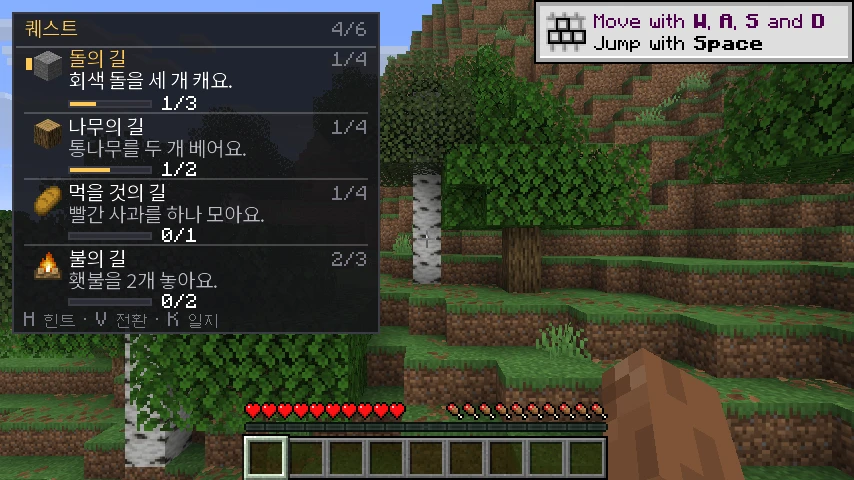
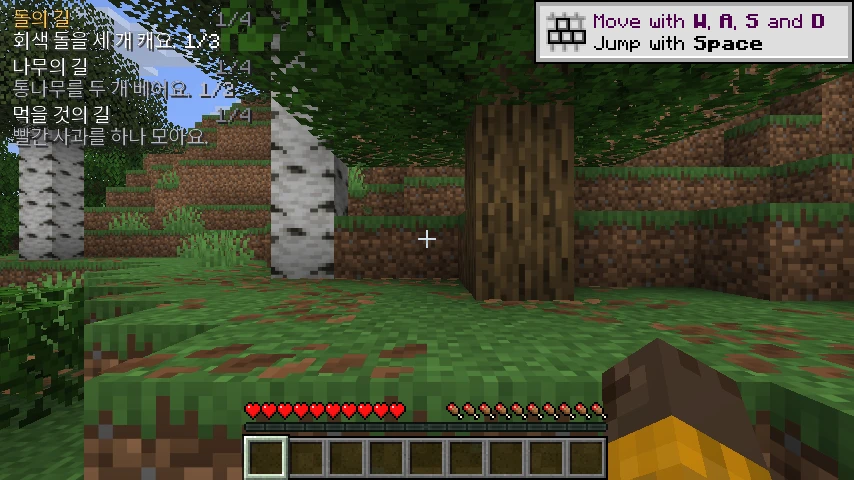
feat: background-free compact quest log with inline counts
The HUD quest log loses its panel, header and footer: each quest is two shadowed lines, the highlighted one in gold, with the goal count inline after the sentence (1/3) instead of a progress bar. Roughly a third of the previous screen space.

diff --git a/src/main/java/de/zirks/hangulquest/ui/HudController.java b/src/main/java/de/zirks/hangulquest/ui/HudController.java
@@ -395,9 +395,9 @@ public final class HudController implements QuestEngine.Feedback {
 	}
 
 	/**
-	 * Questie-style quest log: every tracked trail with its current objective, its conditions and live
-	 * progress, drawn in the mod's own panel style. The focused trail — the one the hint key and the
-	 * sidequest work on — is highlighted and shows its clue in full.
+	 * Questie-style quest log: one compact, background-free list of the tracked quests. Text carries a
+	 * drop shadow instead of a panel, every quest is two tight lines, and counting goals show their
+	 * number inline ("0/3") instead of a bar, so the log stays out of the way of the world.
 	 */
 	private void drawQuestLog(GuiGraphicsExtractor graphics) {
 		QuestEngine quests = hq.quests();
@@ -406,126 +406,96 @@ public final class HudController implements QuestEngine.Feedback {
 			return;
 		}
 		var font = mc.font;
-		int x = 6;
-		int y = 6;
-		int maxWidth = Math.min(268, mc.getWindow().getGuiScaledWidth() - 12);
 		int limit = Math.max(1, Math.min(views.size(), hq.config().questTrackerRows));
 		List<QuestEngine.TrackView> shown = views.subList(0, limit);
 		boolean more = views.size() > limit;
 
-		int textWidth = Math.max(120, maxWidth - 34);
-		int titleWidth = 0;
-		int statusWidth = 0;
+		int x = 6;
+		int y = 6;
+		int maxWidth = Math.min(260, mc.getWindow().getGuiScaledWidth() - 16);
+		int width = 120;
 		for (QuestEngine.TrackView view : shown) {
-			titleWidth = Math.max(titleWidth, font.width(KoText.ko(view.titleKo())) + 6
-					+ font.width(Component.literal(counter(view))));
-			statusWidth = Math.max(statusWidth, font.width(KoText.ko(view.status())));
+			width = Math.max(width, Math.min(maxWidth, titleWidth(font, view)));
+			width = Math.max(width, Math.min(maxWidth, objectiveWidth(font, view)));
 		}
-		int contentWidth = Math.min(maxWidth - 34, Math.max(titleWidth, Math.min(190, statusWidth)));
-		int width = Math.max(184, Math.min(maxWidth, contentWidth + 34));
+		width = Math.min(maxWidth, width);
 
-		int height = 32;
+		int rowHeight = 24;
+		int height = shown.size() * rowHeight + (more ? 9 : 0);
+
+		int row = y;
 		for (QuestEngine.TrackView view : shown) {
-			height += entryHeight(font, view, width - 34);
+			drawQuestRow(graphics, view, x, row, width);
+			row += rowHeight;
 		}
 		if (more) {
-			height += 10;
+			drawShadowed(graphics, font, Component.literal("+" + (views.size() - limit)), x, row,
+					Draw.DIM);
 		}
-
-		Draw.panel(graphics, x, y, width, height, 0);
-		Draw.korean(graphics, font, "퀘스트", x + 6, y + 5, Draw.GOLD);
-		String count = views.size() + "/" + QuestEngine.MAX_TRACKED;
-		Draw.label(graphics, font, count, x + width - 6 - font.width(Component.literal(count)), y + 5,
-				Draw.DIM);
-		graphics.fill(x + 2, y + 17, x + width - 2, y + 18, 0x40FFFFFF);
-
-		int row = y + 20;
-		for (int i = 0; i < shown.size(); i++) {
-			row = drawQuestRow(graphics, shown.get(i), x, row, width);
-			if (i < shown.size() - 1) {
-				graphics.fill(x + 6, row - 4, x + width - 6, row - 3, 0x33FFFFFF);
-			}
-		}
-		if (more) {
-			Draw.label(graphics, font, "+" + (views.size() - limit) + " weitere", x + 28, row - 2, Draw.DIM);
-			row += 10;
-		}
-		Draw.label(graphics, font, "H 힌트 · V 전환 · K 일지", x + 6, y + height - 11, Draw.DIM);
 		this.questLogBottom = y + height;
 	}
 
-	private int entryHeight(net.minecraft.client.gui.Font font, QuestEngine.TrackView view,
-							int textWidth) {
-		int height = 11;
-		Component clue = KoText.ko(view.clueKo());
-		height += view.focused() ? Draw.wrappedHeight(font, clue, textWidth, 2) : font.lineHeight;
-		if (hq.config().questGerman && view.clueDe() != null && !view.clueDe().isBlank()) {
-			height += font.lineHeight;
+	private int titleWidth(net.minecraft.client.gui.Font font, QuestEngine.TrackView view) {
+		return font.width(KoText.ko(view.titleKo())) + 8
+				+ font.width(Component.literal(counter(view)));
+	}
+
+	private int objectiveWidth(net.minecraft.client.gui.Font font, QuestEngine.TrackView view) {
+		int width = font.width(objective(view));
+		String status = conditionStatus(view);
+		if (!status.isEmpty()) {
+			width += font.width(Component.literal(" · ")) + font.width(KoText.ko(status));
 		}
-		return height + 12;
+		return width;
+	}
+
+	/** The clue plus the count of a counting goal, e.g. "회색 돌을 세 개 캐요. 0/3". */
+	private Component objective(QuestEngine.TrackView view) {
+		Component clue = KoText.ko(view.clueKo());
+		int needed = view.needed();
+		if (!view.countable() || needed <= 1) {
+			return clue;
+		}
+		return Component.empty().append(clue)
+				.append(Component.literal(" " + view.progress() + "/" + needed));
+	}
+
+	/** Only condition messages ("밤 필요") are worth a second sentence; counts are already inline. */
+	private static String conditionStatus(QuestEngine.TrackView view) {
+		String status = view.status();
+		if (status == null || status.isBlank() || status.contains("/")) {
+			return "";
+		}
+		return status;
 	}
 
 	private int drawQuestRow(GuiGraphicsExtractor graphics, QuestEngine.TrackView view, int x, int y,
 							 int width) {
 		var font = mc.font;
-		int textX = x + 28;
-		int textWidth = width - 34;
-		if (view.focused()) {
-			graphics.fill(x + 7, y + 3, x + 10, y + 9, Draw.GOLD);
-		}
-		Draw.itemIcon(graphics, QuestTheme.icon(view.topicKey()), x + 10, y - 1);
-		Draw.korean(graphics, font, view.titleKo(), textX, y, view.focused() ? Draw.GOLD : Draw.WHITE);
+		int color = view.focused() ? Draw.GOLD : Draw.WHITE;
+		drawShadowed(graphics, font, KoText.ko(view.titleKo()), x, y, color);
 		String counter = counter(view);
-		Draw.label(graphics, font, counter, x + width - 6 - font.width(Component.literal(counter)), y,
-				Draw.DIM);
-		int row = y + 11;
+		int counterX = x + width - font.width(Component.literal(counter));
+		drawShadowed(graphics, font, Component.literal(counter), counterX, y, Draw.DIM);
 
-		Component clue = KoText.ko(view.clueKo());
-		if (view.focused()) {
-			Draw.wrapped(graphics, font, clue, textX, row, textWidth, Draw.WHITE, 2);
-			row += Draw.wrappedHeight(font, clue, textWidth, 2);
-		} else {
-			Draw.truncated(graphics, font, clue, textX, row, textWidth, Draw.GRAY);
-			row += font.lineHeight;
+		Component objective = objective(view);
+		int objectiveWidth = font.width(objective);
+		String status = conditionStatus(view);
+		Component line = objective;
+		if (!status.isEmpty() && objectiveWidth + 6 + font.width(KoText.ko(status)) <= width) {
+			line = Component.empty().append(objective)
+					.append(Component.literal(" · "))
+					.append(KoText.ko(status));
 		}
-		if (hq.config().questGerman && view.clueDe() != null && !view.clueDe().isBlank()) {
-			Draw.truncated(graphics, font, Component.literal(view.clueDe()), textX, row, textWidth,
-					Draw.DIM);
-			row += font.lineHeight;
-		}
-		row += 1;
-
-		if (view.countable()) {
-			int barWidth = 42;
-			drawProgressBar(graphics, textX, row + 2, barWidth, 4, view.progress(), view.needed());
-			String progress = view.progress() + "/" + view.needed();
-			int progressColor = view.progress() >= view.needed() ? Draw.GREEN : Draw.WHITE;
-			Draw.label(graphics, font, progress, textX + barWidth + 5, row, progressColor);
-			// The bar already shows a count; only condition messages ("밤 필요") add anything.
-			if (!view.status().isBlank() && !view.status().contains("/")) {
-				int statusX = textX + barWidth + 9 + font.width(Component.literal(progress));
-				Draw.truncated(graphics, font, KoText.ko(view.status()), statusX, row,
-						textX + textWidth - statusX, Draw.DIM);
-			}
-		} else if (!view.status().isBlank()) {
-			Draw.truncated(graphics, font, KoText.ko(view.status()), textX, row, textWidth, Draw.BLUE);
-		}
-		return row + 12;
+		Draw.truncated(graphics, font, line, x, y + 11, width,
+				view.focused() ? Draw.WHITE : Draw.GRAY, true);
+		return y;
 	}
 
-	private void drawProgressBar(GuiGraphicsExtractor graphics, int x, int y, int width, int height,
-							  int progress, int needed) {
-		graphics.fill(x, y, x + width, y + height, 0xFF2C2C35);
-		float ratio = needed <= 0 ? 0f : Math.min(1f, progress / (float) needed);
-		int filled = Math.round((width - 2) * ratio);
-		if (filled > 0) {
-			graphics.fill(x + 1, y + 1, x + 1 + filled, y + height - 1,
-					ratio >= 1f ? Draw.GREEN : Draw.GOLD);
-		}
-		graphics.fill(x, y, x + width, y + 1, Draw.BORDER);
-		graphics.fill(x, y + height - 1, x + width, y + height, Draw.BORDER);
-		graphics.fill(x, y, x + 1, y + height, Draw.BORDER);
-		graphics.fill(x + width - 1, y, x + width, y + height, Draw.BORDER);
+	/** Flat HUD text with the vanilla drop shadow, which is what makes text readable without a panel. */
+	private static void drawShadowed(GuiGraphicsExtractor graphics, net.minecraft.client.gui.Font font,
+									 Component text, int x, int y, int color) {
+		graphics.text(font, text, x, y, color, true);
 	}
 
 	private static String counter(QuestEngine.TrackView view) {

diff --git a/src/main/java/de/zirks/hangulquest/ui/Draw.java b/src/main/java/de/zirks/hangulquest/ui/Draw.java
@@ -67,13 +67,19 @@ public final class Draw {
 
 	public static void truncated(GuiGraphicsExtractor graphics, Font font, Component text, int x, int y,
 								 int maxWidth, int color) {
+		truncated(graphics, font, text, x, y, maxWidth, color, SHADOW);
+	}
+
+	/** Same, but with an explicit shadow flag — HUD text without a panel needs the vanilla shadow. */
+	public static void truncated(GuiGraphicsExtractor graphics, Font font, Component text, int x, int y,
+								 int maxWidth, int color, boolean shadow) {
 		if (font.width(text) <= maxWidth) {
-			graphics.text(font, text, x, y, color, SHADOW);
+			graphics.text(font, text, x, y, color, shadow);
 			return;
 		}
 		String plain = text.getString();
 		String cut = TextClean.truncate(plain, Math.max(3, plain.length() * maxWidth / Math.max(1, font.width(text))));
-		graphics.text(font, Component.literal(cut), x, y, color, SHADOW);
+		graphics.text(font, Component.literal(cut), x, y, color, shadow);
 	}
 
 	/** A neutral "?" tile shown instead of an item icon until the answer is revealed. */

diff --git a/src/main/java/de/zirks/hangulquest/HangulQuestClient.java b/src/main/java/de/zirks/hangulquest/HangulQuestClient.java
@@ -279,16 +279,17 @@ public final class HangulQuestClient implements ClientModInitializer {
 		for (int i = 0; i < roots.size(); i++) {
 			quests.demoProgress(roots.get(i).id(), i == 1 ? 1 : i == 2 ? 0 : i == 3 ? 2 : 1);
 		}
-		// Only two of them are checked into the log, like a player who keeps the rest for later.
-		for (int i = 2; i < roots.size(); i++) {
-			quests.setTracked(roots.get(i).id(), false);
+		// Leave the last one unchecked, like a player who keeps it for later.
+		if (roots.size() > 3) {
+			quests.setTracked(roots.get(roots.size() - 1).id(), false);
 		}
+		quests.focus(roots.get(0).id());
 		LOG.info("[questlog] tracked {} roots={}", quests.trackedCount(), roots.size());
 	}
 
 	/** Dev-only: opens the journal on the quest tab a moment after filling the log. */
 	private void questLogDemoJournal() {
-		if (questDemoTicks == 180) {
+		if (questDemoTicks == 400) {
 			mc.setScreenAndShow(new JournalScreen(4));
 			LOG.info("[questlog] journal opened on the quest tab");
 		}

diff --git a/docs/book/src/playing.md b/docs/book/src/playing.md
@@ -2,26 +2,28 @@
 
 ## The quest log
 
-When a quest is tracked, the top-left corner shows a **quest log**: every open quest with its Korean
-objective, the live status of that objective and a progress bar for goals that count something.
+When quests are tracked, the top-left corner shows a **quest log**: no panel, just shadowed text on the
+world, two short lines per quest.
 
-<img src="screenshots/quest-log.webp" alt="Quest log with four quests, their objectives and progress bars" />
+<img src="screenshots/quest-log.webp" alt="Background-free quest log with three quests and their counts" />
 
-Each row reads:
+Each quest reads:
 
 | Part | Example | Meaning |
 |---|---|---|
-| title | **돌의 길** | the trail's Korean title; the highlighted quest is gold and marked with a bar |
+| title | **돌의 길** | the trail's Korean title; the highlighted quest is gold |
 | step | `1/4` | which step of the trail you are on, finales included |
-| objective | `회색 돌을 세 개 캐요.` | the current Korean sentence |
-| progress | `1/3` with a gold bar | blocks broken, items collected, things placed or mobs defeated so far |
-| status | `지금 낮 · 밤 필요` | why it is not done yet — time, weather, altitude, biome, dimension, a mob nearby |
+| objective | `회색 돌을 세 개 캐요. 1/3` | the current Korean sentence, with the count of the goal right after it |
+| status | `지금 낮 · 밤 필요` | only when a condition is missing — time, weather, biome, dimension, a mob nearby |
+
+Counts are inline (`1/3`) instead of a bar, and there is no background box, so the log stays small even
+with several quests open.
 
 The status line is generated from the goal, so it always answers the question the sentence raises:
 
 | What you see | What it means |
 |---|---|
-| `돌 1/3` | one of three stone broken, collected or placed — depending on the goal |
+| `1/3` | one of three stone broken, collected or placed — depending on the goal |
 | `지금 낮 · 밤 필요` | it is day; the step needs night |
 | `Y 62 / 140 위` | you are at Y 62 and the goal wants Y 140 or higher |
 | `지금 평원 지형 · 산 지형 필요` | you are standing in plains, the step wants a mountain biome |

diff --git a/README.md b/README.md
@@ -64,7 +64,7 @@ Everything happens on your own client. The mod never talks to a server, so it wo
 **Quest trails**
 - **414 questlines**, one JSON file each: a tree **22 levels deep**, 1,505 steps in total, 38 roots, branches that merge again before they continue.
 - Each trail is a small Schnitzeljagd — three to five clues that build on each other, then a **ritual finale** that is always completable. No structure, chest, coordinate or rare biome is ever required.
-- **A quest log, not a single tracker.** Tick quests in the journal and the HUD lists them: title, current Korean objective, live status line (`지금 낮 · 밤 필요`, `Y 62 / 140 위`) and a progress bar where the goal counts something. Up to six, one of them highlighted; `V` cycles the highlight.
+- **A quest log, not a single tracker.** Tick quests in the journal and they appear top-left as a short, background-free list: title, current Korean objective, the count right after it (`1/3`) and a status line when a condition is missing. Up to six, one of them highlighted; `V` cycles the highlight.
 - **Only checked quests advance.** An unticked quest keeps its saved progress but is paused, so nothing completes behind your back while you are reading something else. The highlighted quest is the one the hint key and the sidequest work on.
 - Finishing a trail chains onward automatically: the only unlocked child starts, or a HUD card offers up to five follow-ups (`1`–`5`, the first one after 60 s). Leaving a trail pauses it mid-step; coming back resumes that exact step, counter and sidequest state.
 
@@ -111,7 +111,7 @@ Everything happens on your own client. The mod never talks to a server, so it wo
     <td><img src="docs/screenshots/journal-translations.webp" alt="Journal with translations switched on" /></td>
   </tr>
   <tr>
-    <td><img src="docs/screenshots/quest-log.webp" alt="Quest log with four tracked quests and their progress" /></td>
+    <td><img src="docs/screenshots/quest-log.webp" alt="Background-free quest log with three quests" /></td>
     <td><img src="docs/screenshots/celebration-trail.webp" alt="Trail completed celebration" /></td>
   </tr>
   <tr>

diff --git a/CHANGELOG.md b/CHANGELOG.md
@@ -4,6 +4,20 @@ All notable changes to Hangul Quest. The format follows [Keep a Changelog](https
 and the project uses [semantic versioning](https://semver.org/). Minecraft versions are named
 explicitly, because a mod for 26.3 is not a mod for anything else.
 
+## [1.3.0] — 2026-10-20
+
+### Changed
+
+- **The quest log lost its panel.** Quests are drawn straight onto the world as shadowed text: two
+  tight lines per quest, no background box, no header or footer — the log now takes roughly a third of
+  the screen space it used to.
+- **Counts are inline instead of a bar.** A counting goal shows its number right after the objective
+  (`회색 돌을 세 개 캐요. 1/3`); condition messages follow after a dot (` · 밤 필요`) when they fit.
+- The highlighted quest keeps a gold title; everything else is white/grey, so the focus is visible
+  without a box.
+
+[1.3.0]: https://github.com/leks2205/HangulQuest/releases/tag/v1.3.0
+
 ## [1.2.0] — 2026-10-20
 
 ### Added
